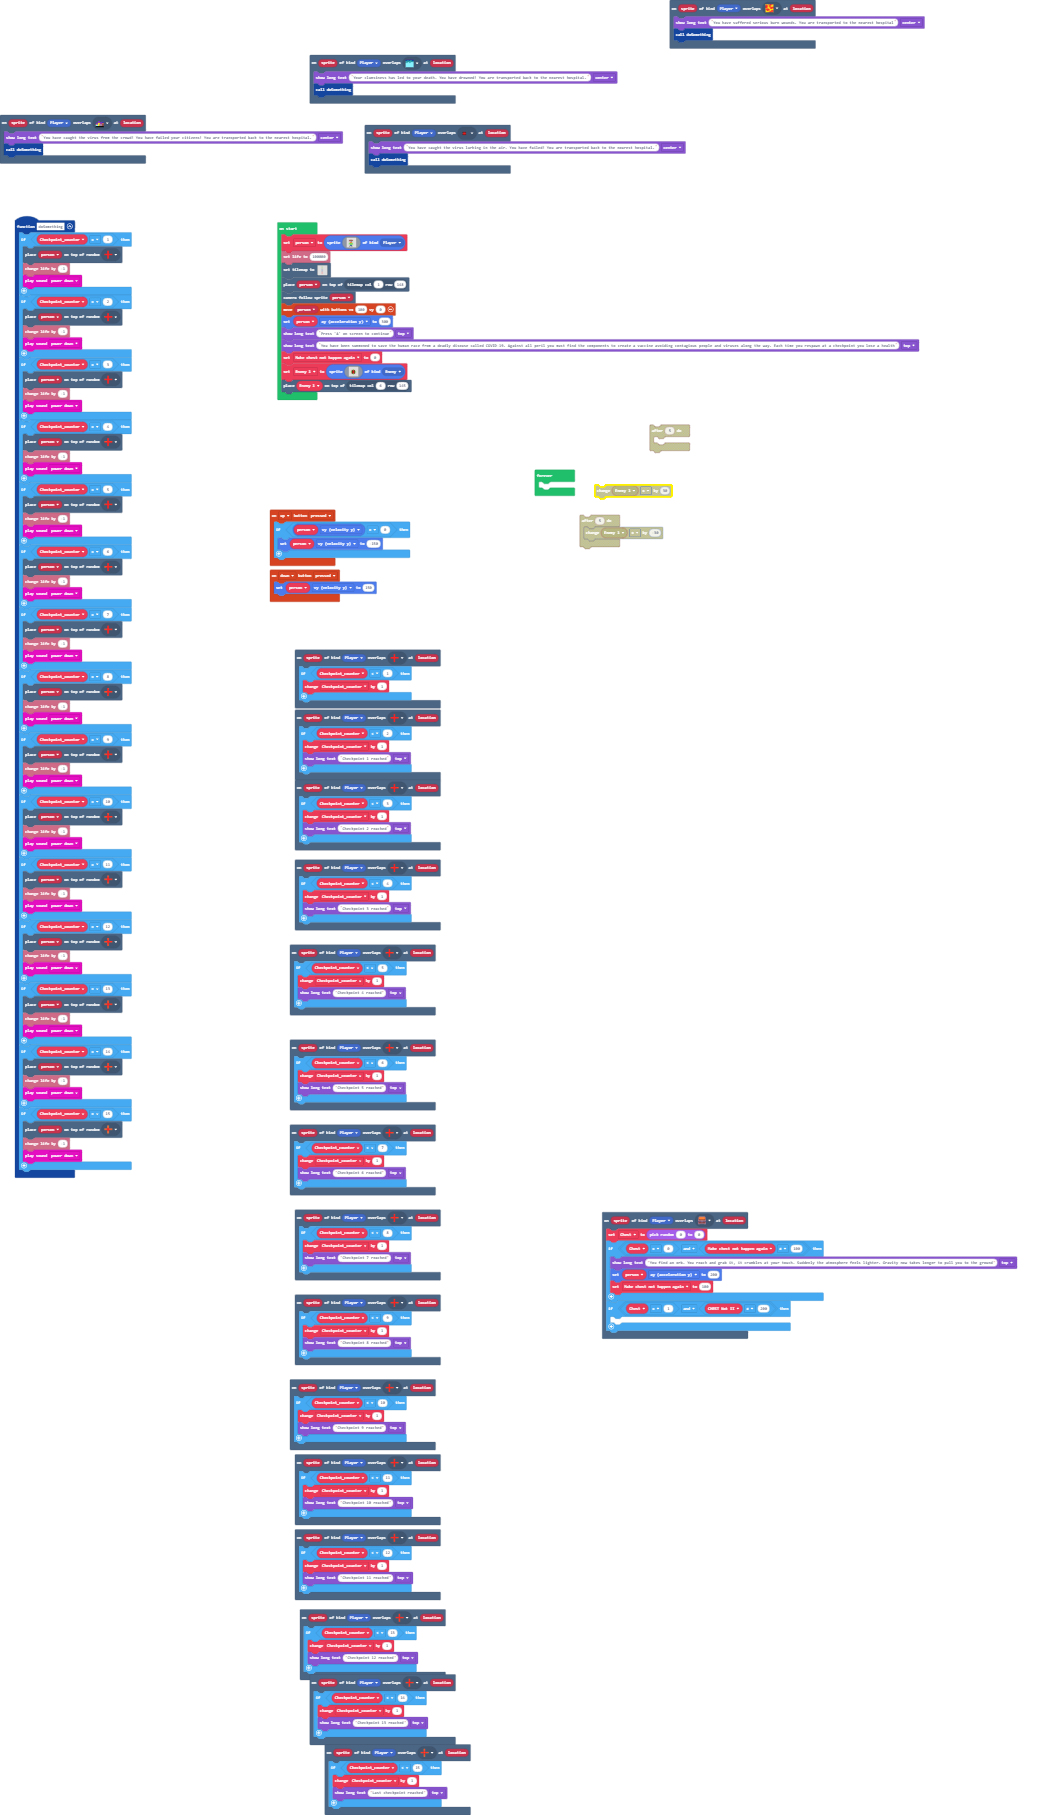
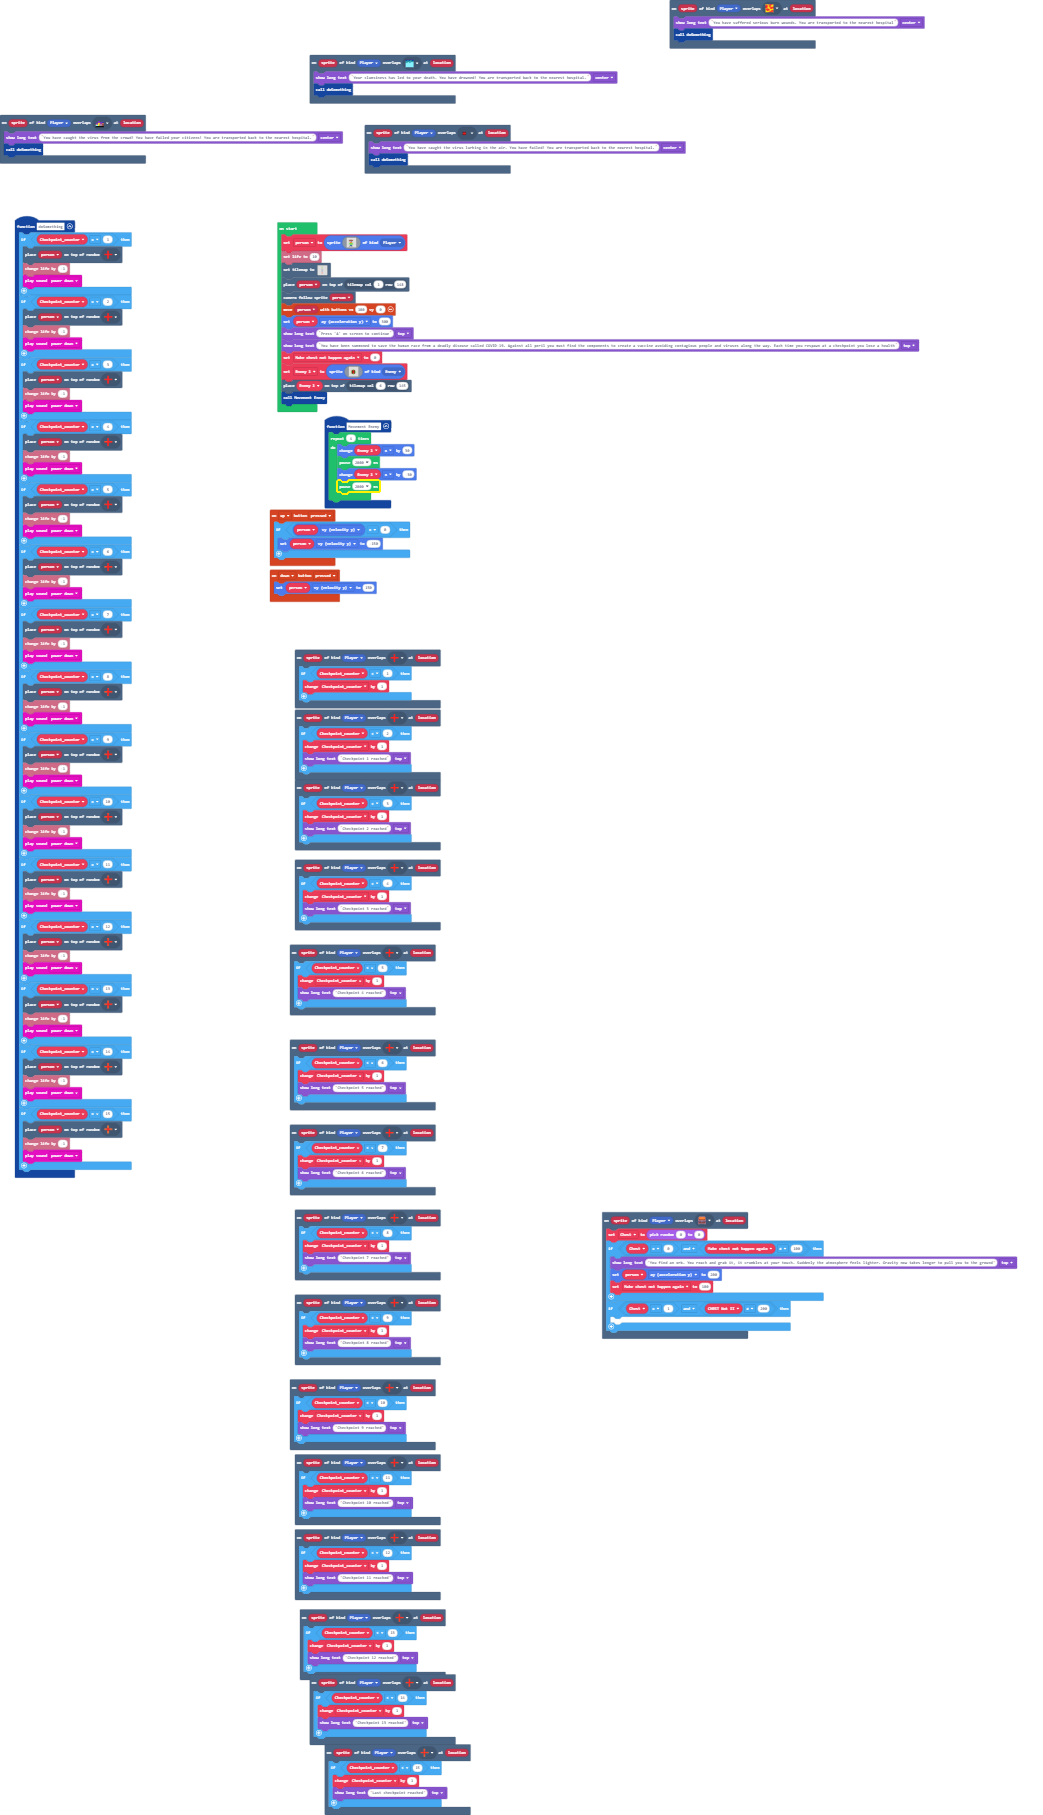
Update pxt.json, main.blocks, main.ts, tilemap.g.jres, tilemap.g.ts

Changed region(s): [[0.4909, 0.216, 0.675, 0.3085], [0.2454, 0.216, 0.3988, 0.2777]]

diff --git a/tilemap.g.ts b/tilemap.g.ts
@@ -145,7 +145,7 @@ namespace myTiles {
 2222.2.2............
 `, [myTiles.transparency16,sprites.dungeon.floorLight4,sprites.dungeon.floorLight0,sprites.builtin.crowd2], TileScale.Sixteen);
             case "level_2":
[2 lines of base64/hex data omitted]
 22.2.2.2.2.2.2222222
 2.............222222
 222....2..2.......22

diff --git a/main.ts b/main.ts
@@ -184,6 +184,14 @@ scene.onOverlapTile(SpriteKind.Player, assets.tile`tile24`, function (sprite, lo
         game.showLongText("Checkpoint 11 reached", DialogLayout.Top)
     }
 })
+function Movement_Enemy () {
+    for (let index = 0; index < 4; index++) {
+        Enemy_1.x += 30
+        pause(2000)
+        Enemy_1.x += -30
+        pause(2000)
+    }
+}
 scene.onOverlapTile(SpriteKind.Player, assets.tile`tile23`, function (sprite, location) {
     if (Checkpoint_counter < 11) {
         Checkpoint_counter += 1
@@ -210,6 +218,7 @@ scene.onOverlapTile(SpriteKind.Player, assets.tile`tile9`, function (sprite, loc
 })
 let Chest = 0
 let Checkpoint_counter = 0
+let Enemy_1: Sprite = null
 let Make_chest_not_happen_again = 0
 let person: Sprite = null
 person = sprites.create(img`
@@ -230,7 +239,7 @@ person = sprites.create(img`
     . . . . . 8 . . 8 . . . . . . . 
     . . . . e e . . e e . . . . . . 
     `, SpriteKind.Player)
-info.setLife(100000)
+info.setLife(10)
 tiles.setTilemap(tilemap`level_2`)
 tiles.placeOnTile(person, tiles.getTileLocation(1, 148))
 scene.cameraFollowSprite(person)
@@ -239,7 +248,7 @@ person.ay = 300
 game.showLongText("Press 'A' on screen to continue", DialogLayout.Top)
 game.showLongText("You have been summoned to save the human race from a deadly disease called COVID-19. Against all peril you must find the components to create a vaccine avoiding contagious people and viruses along the way. Each time you respawn at a checkpoint you lose a health", DialogLayout.Top)
 Make_chest_not_happen_again = 0
-let Enemy_1 = sprites.create(img`
+Enemy_1 = sprites.create(img`
     . . . . . . . . . . . . . . . . 
     . . . . . . . . . . . . . . . . 
     . . . . . . . . . . . . . . . . 
@@ -258,6 +267,4 @@ let Enemy_1 = sprites.create(img`
     . . . . . . . . . . . . . . . . 
     `, SpriteKind.Enemy)
 tiles.placeOnTile(Enemy_1, tiles.getTileLocation(6, 145))
-forever(function () {
-	
-})
+Movement_Enemy()
